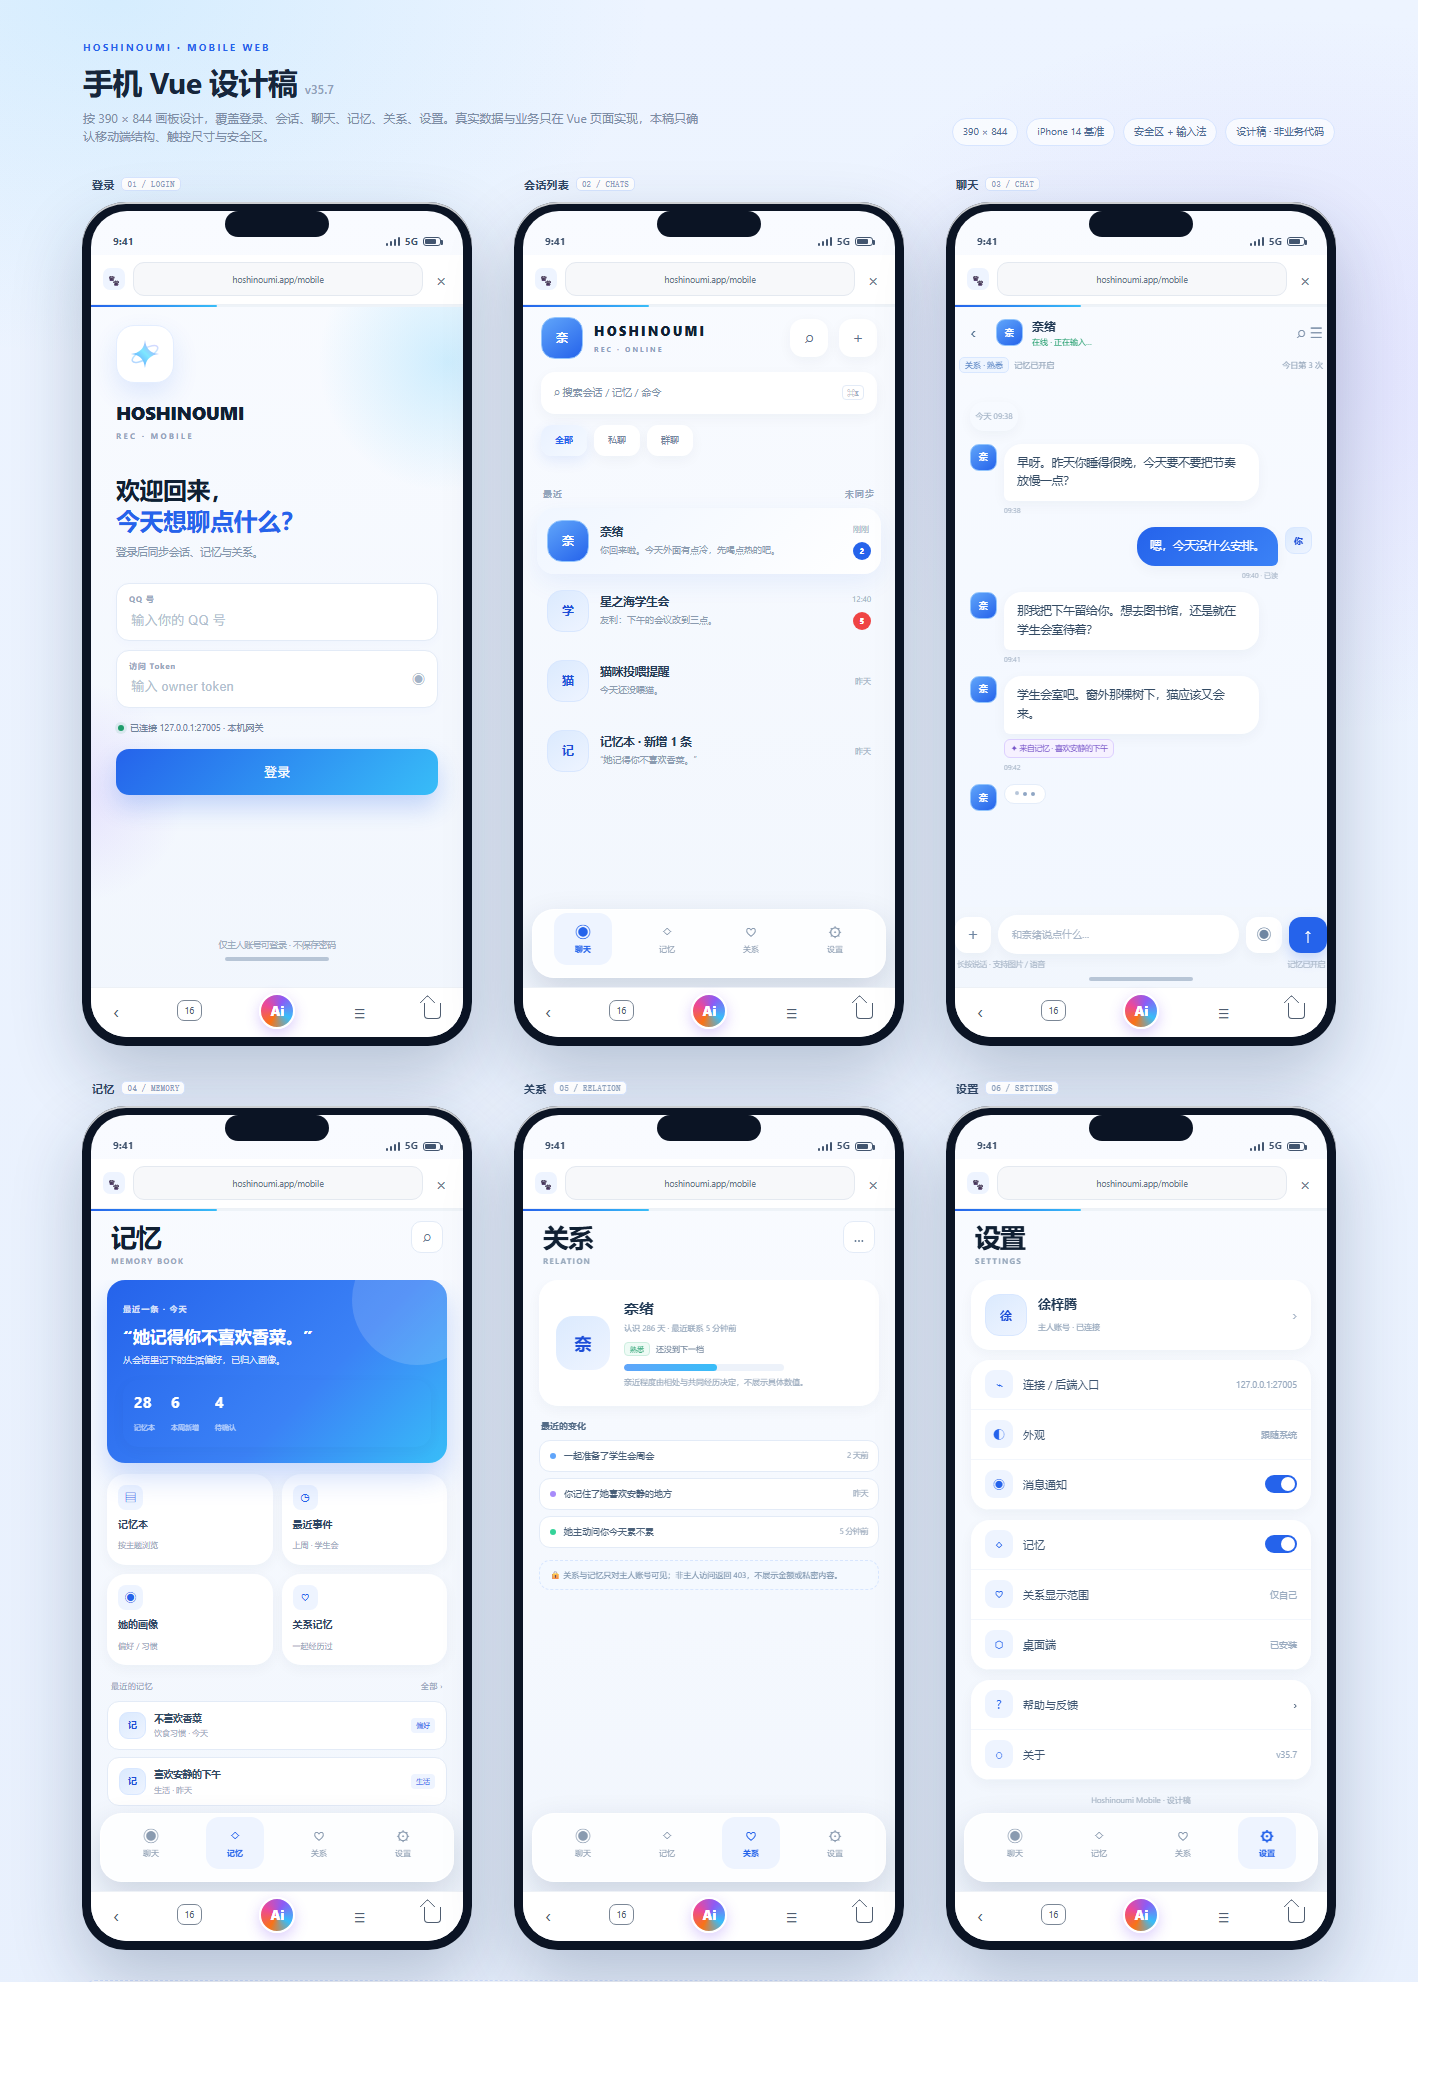
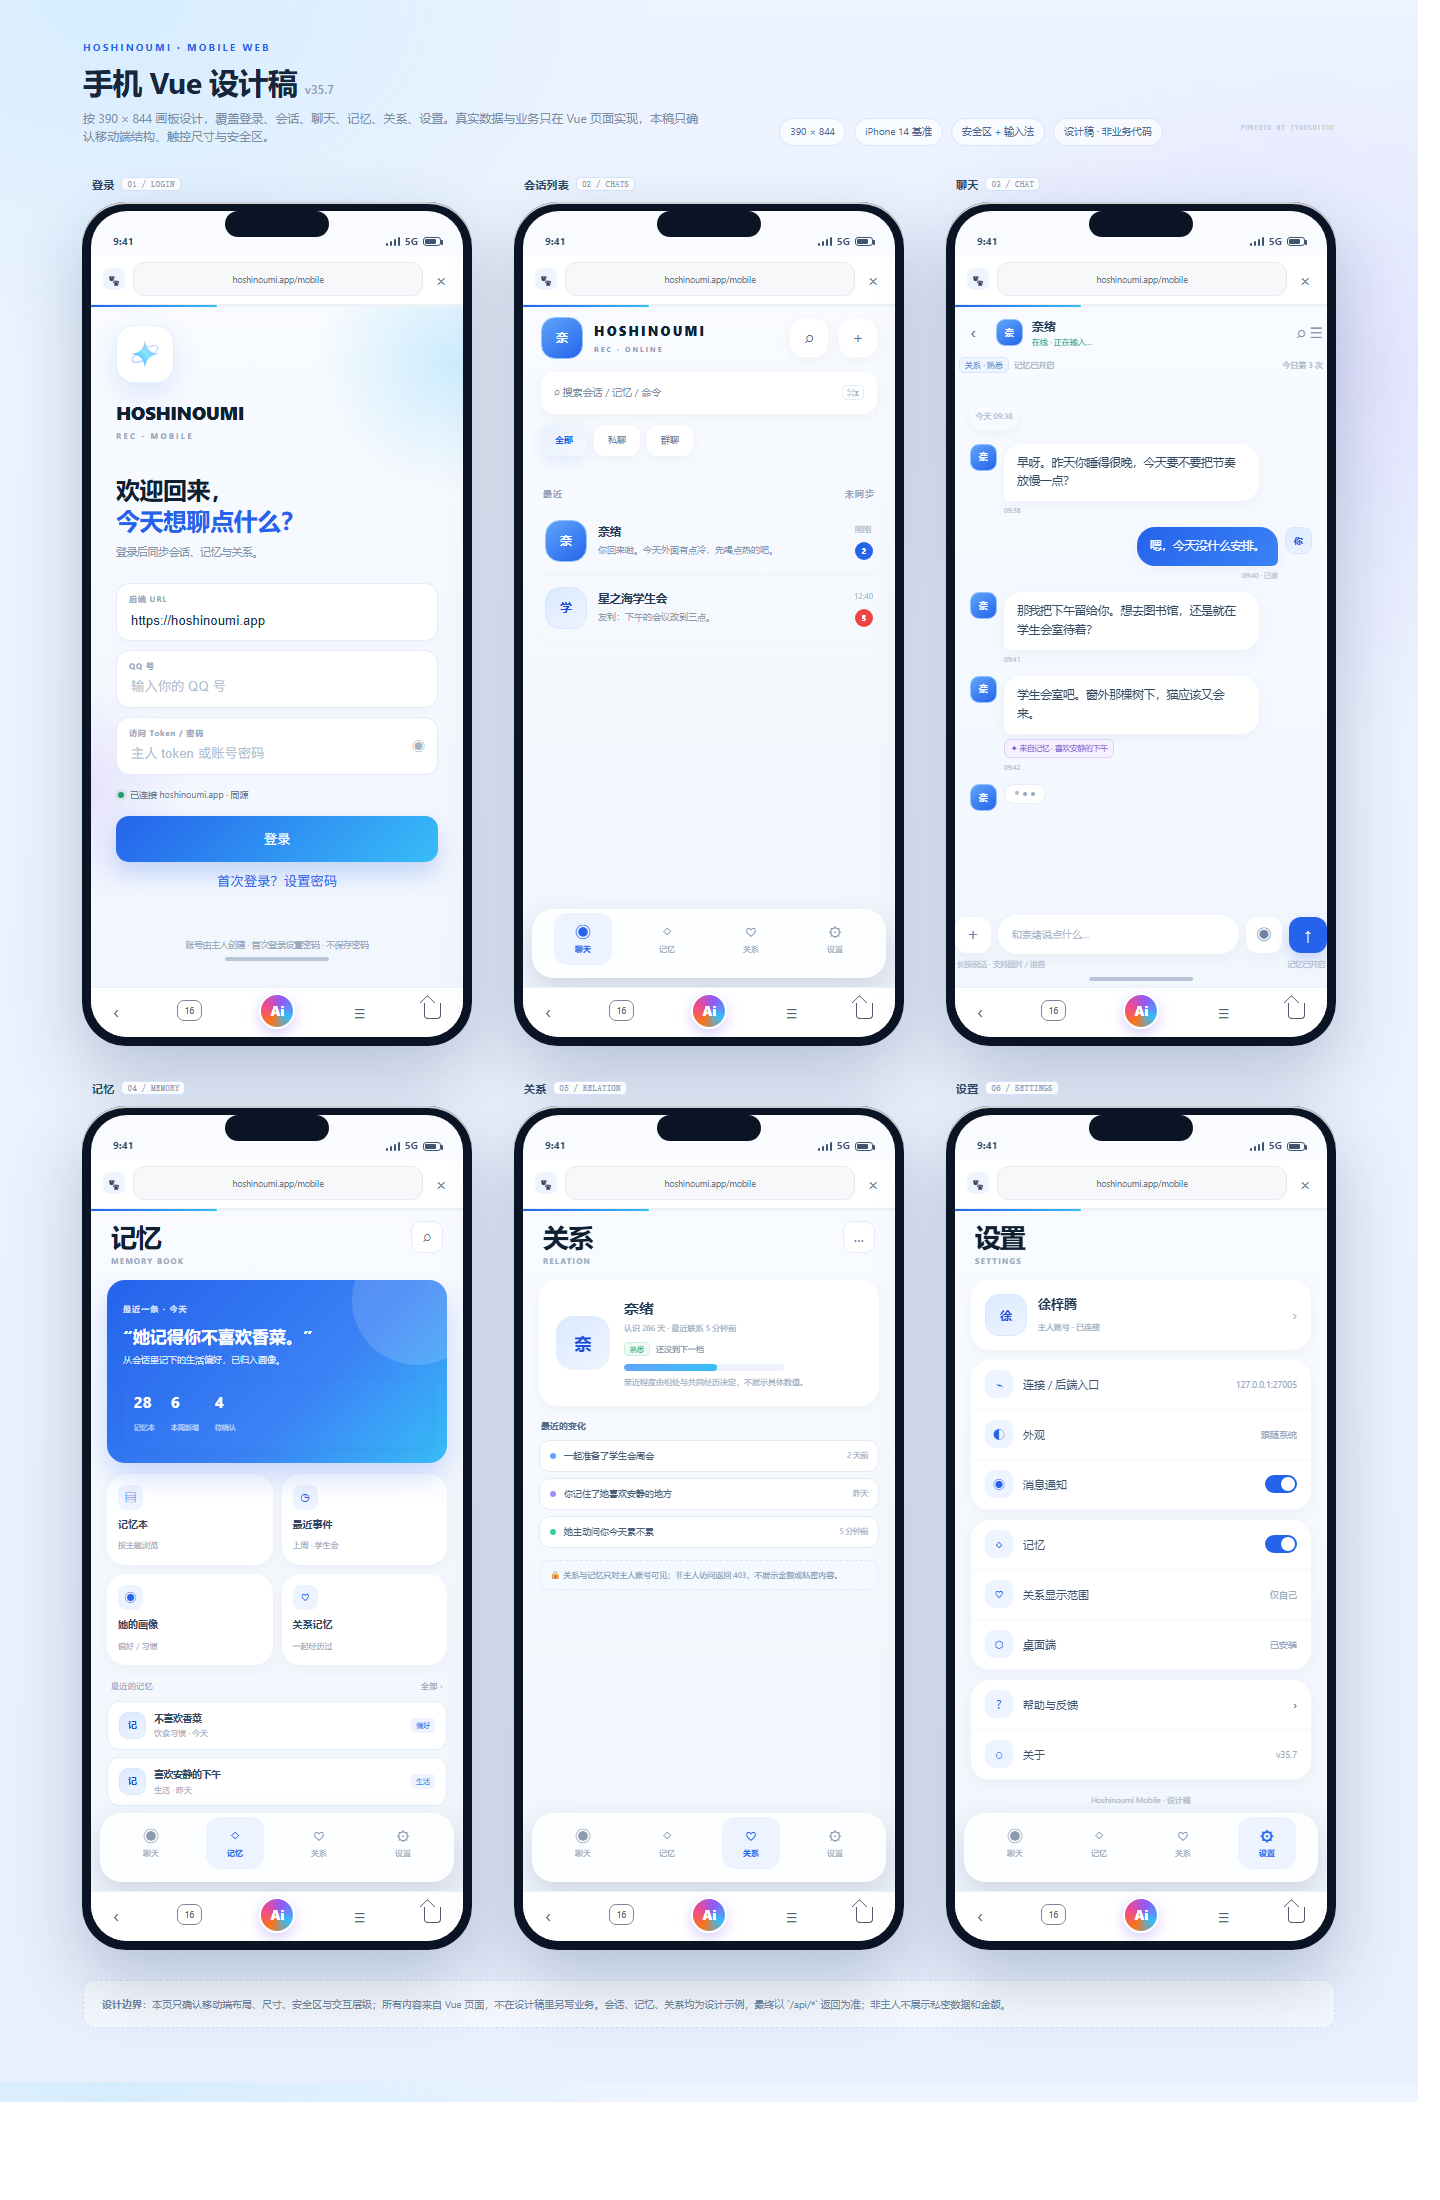
design(v35.9.0.3): 登录后端URL/首次设置密码设计，注册开发排期

diff --git a/docs/design/v35/mobile/hoshinoumi-mobile-v35.7-demo.html b/docs/design/v35/mobile/hoshinoumi-mobile-v35.7-demo.html
@@ -198,6 +198,12 @@ body.embed #view{height:100dvh!important}
 .bottom-nav:before{content:"";position:absolute;top:5px;left:50%;transform:translateX(-50%);width:30px;height:4px;border-radius:3px;background:#d8e5f5;z-index:2}
 .bottom-nav.expanded:before{background:#c7dcff}
 @keyframes nav-sheet-in{from{opacity:0;transform:translateY(18px)}to{opacity:1;transform:none}}
+
+.first-login{width:100%;border:0;background:none;color:#2563eb;font:9px inherit;padding:9px 0 0;text-align:center}
+
+.login .hello{margin-top:20px}
+.login .form{margin-top:16px}
+.login .tip{margin-top:10px;padding-bottom:2px}
 </style>
 <link rel="stylesheet" href="mobile-native.css">
 </head>
@@ -271,12 +277,14 @@ screens.login = `
   <div class="hello">欢迎回来，<br><em>今天想聊点什么？</em></div>
   <div class="sub">登录后同步会话、记忆与关系。</div>
   <div class="form">
+    <div class="field"><label>后端 URL</label><input placeholder="https://hoshinoumi.app" value="https://hoshinoumi.app" inputmode="url"></div>
     <div class="field"><label>QQ 号</label><input placeholder="输入你的 QQ 号" inputmode="numeric" value="10001"></div>
-    <div class="field pass"><div style="flex:1"><label>访问 Token</label><input placeholder="输入 owner token" type="password" value="demo-token"></div><span class="eye">◉</span></div>
-    <div class="server"><i></i>已连接 127.0.0.1:27005 · 本机网关</div>
+    <div class="field pass"><div style="flex:1"><label>访问 Token / 密码</label><input placeholder="主人 token 或账号密码" type="password" value="demo-token"></div><span class="eye">◉</span></div>
+    <div class="server"><i></i>已连接 hoshinoumi.app · 同源</div>
     <button class="primary" onclick="go('chats')">登录</button>
+    <button class="first-login" onclick="openFirstLogin()">首次登录？设置密码</button>
   </div>
-  <div class="tip">仅主人账号可登录 · 不保存密码</div>
+  <div class="tip">账号由主人创建 · 首次登录设置密码 · 不保存密码</div>
   <div class="safe"></div>
 </div>`
 
@@ -642,6 +650,16 @@ function go(name){
   if (quickVal) quickVal.textContent = quickKeys.map(k => allEntries.find(e => e[0] === k)?.[2]).join(' / ')
   if(name==='chats'){ document.querySelectorAll('.conv[data-conv]').forEach(c=>{ if(readConversations.has(c.dataset.conv)) c.querySelectorAll('.badge').forEach(b=>b.remove()) }) } if(name==='chat'){ const input=document.getElementById('input'); if(input) input.style.cssText='flex:1;height:35px;border-radius:10px;background:#f5f8fe;border:1px solid #e6eefb;padding:6px 10px;color:#4a6079;font-size:10px;overflow:auto'; setTimeout(()=>document.getElementById('msgs')?.scrollTo(0,9999),30) } }
 
+function openFirstLogin(){
+  overlay(`<div class="cron-sheet" style="max-width:340px">
+    <div class="cron-sheet-head"><h4>首次登录 · 设置密码</h4><button class="cron-x" onclick="closeOverlay()">×</button></div>
+    <div class="cron-field"><label>已绑定 QQ</label><input value="10002" readonly></div>
+    <div class="cron-field"><label>一次性 setup code</label><input placeholder="主人给你的 setup code"></div>
+    <div class="cron-field"><label>新密码</label><input type="password" placeholder="至少 8 位"></div>
+    <div class="cron-field"><label>确认密码</label><input type="password" placeholder="再输入一次"></div>
+    <div class="cron-actions"><button onclick="closeOverlay()">取消</button><button class="primary" onclick="closeOverlay();toast('密码已设置（演示）');go('chats')">设置密码并登录</button></div>
+  </div>`)
+}
 function openCronForm(title){
   const editing = title.includes('编辑')
   const name = editing ? title.split('·').pop().trim() : ''

diff --git a/docs/design/v35/mobile/hoshinoumi-mobile-v35.7.html b/docs/design/v35/mobile/hoshinoumi-mobile-v35.7.html
@@ -33,12 +33,14 @@
           <div class="hello">欢迎回来，<br><em>今天想聊点什么？</em></div>
           <div class="sub">登录后同步会话、记忆与关系。</div>
           <div class="form">
+            <div class="field"><label>后端 URL</label><input placeholder="https://hoshinoumi.app" value="https://hoshinoumi.app" inputmode="url"></div>
             <div class="field"><label>QQ 号</label><input placeholder="输入你的 QQ 号" inputmode="numeric"></div>
-            <div class="field pass"><div style="flex:1"><label>访问 Token</label><input placeholder="输入 owner token" type="password"></div><span class="eye">◉</span></div>
-            <div class="server"><i></i>已连接 127.0.0.1:27005 · 本机网关</div>
+            <div class="field pass"><div style="flex:1"><label>访问 Token / 密码</label><input placeholder="主人 token 或账号密码" type="password"></div><span class="eye">◉</span></div>
+            <div class="server"><i></i>已连接 hoshinoumi.app · 同源</div>
             <button class="primary">登录</button>
+            <button style="width:100%;border:0;background:none;color:#2563eb;font:9px inherit;padding:9px 0 0">首次登录？设置密码</button>
           </div>
-          <div class="tip">仅主人账号可登录 · 不保存密码</div>
+          <div class="tip">账号由主人创建 · 首次登录设置密码 · 不保存密码</div>
           <div class="safe"></div>
         </div>
       </div></div>

diff --git a/docs/versions/v35-index.md b/docs/versions/v35-index.md
@@ -168,7 +168,7 @@
 | v35.8.2.2 | 更新 / 安装 / 回退 | ⬜ |
 | v35.8.2.3 | 真机矩阵验收 | ⬜ |
 | v35.8.3.0 | 接入 v35.9.30 手机页面 | ⬜ |
-## v35.9（95 个，含 v35.9.30 手机 Vue 16 个）
+## v35.9（96 个，含 v35.9.30 手机 Vue 16 个）
 
 > 存钱页完整计划：v35.9.1.6–.18；设计稿见 `docs/design/v35/web/hoshinoumi-web-v35.5-savings.png`。
 
@@ -177,6 +177,7 @@
 | v35.9.0.0 | 命令页 | ⬜ |
 | v35.9.0.1 | 命令页动画 | ⬜ |
 | v35.9.0.2 | 命令页分组 / 动态更新 | ⬜ |
+| v35.9.0.3 | 登录 / 连接配置 / 首次设置密码（注册） | ⬜ |
 | v35.9.1.0 | 存钱 / 流水页 | ⬜ |
 | v35.9.1.1 | 存钱动画 | ⬜ |
 | v35.9.1.2 | 财务上下文注入 | ⬜ |
@@ -422,8 +423,8 @@
 
 ## 统计
 
-- v35.0–v35.9 已编号：207 个
+- v35.0–v35.9 已编号：208 个
 - v35.10–v35.22 已知编号：64 个
-- 合计：275 个
+- 合计：276 个
 - 已完成：v35.1、v35.2、v35.4.0–15、v35.5.0–5.1、v35.9.23/25
 - 取消：v35.3.0.0、v35.3.1.0

diff --git a/docs/versions/v35.md b/docs/versions/v35.md
@@ -578,6 +578,7 @@ v35.9.1.6–.18 存钱：总览/目标/账户/冻结/定期/基金/校验/权限
 v35.9.20.0 周计划 API
 v35.9.20.1 周计划页（ISO 年周 + 按周节次）
 v35.9.0   命令
+v35.9.0.3 登录 / 首次设置密码（注册）
 v35.9.2   信息（记忆页见 .2.2–.2.7）
 v35.9.5   人设
 v35.9.5.8 人设导入：酒馆卡兼容
